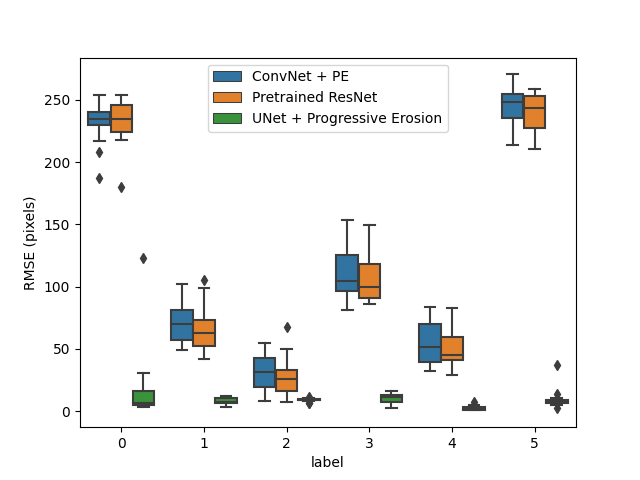
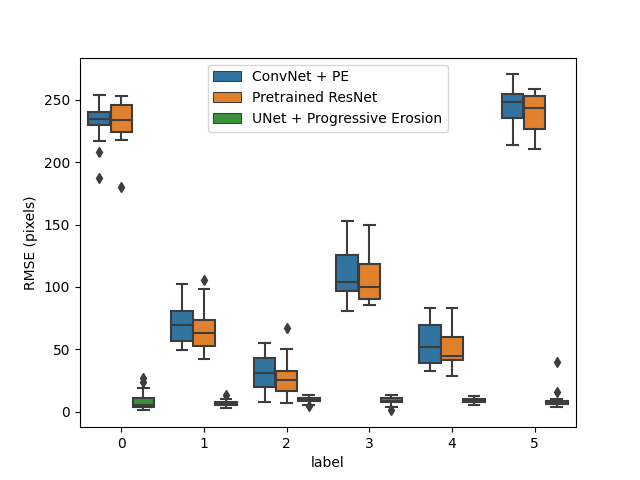
[Feat] Box Plot #23

diff --git a/plot_data/box_plot.py b/plot_data/box_plot.py
@@ -24,7 +24,7 @@ import matplotlib.pyplot as plt
 def convert_txt_to_list(txt_file):
     rmse_list = [[0]*18 for _ in range(6)]
 
-    with open(f"{txt_file}", "r") as f:
+    with open(f"./txt_files/{txt_file}", "r") as f:
         for line in f:
             data1 = list(line.split(','))
     
@@ -72,7 +72,7 @@ if __name__ == '__main__':
 
     parser.add_argument('--baseline1_txt', type=str, default="MSE_LIST_baseline_ConvNet_PE.txt")
     parser.add_argument('--baseline2_txt', type=str, default="MSE_LIST_baseline_ResNet.txt")
-    parser.add_argument('--best_txt', type=str, default="MIDL_D40-5_W_P_progressive_weighted_erosion_MSE_LIST.txt")
+    parser.add_argument('--best_txt', type=str, default="MIDL_D60-10_W_P_progressive_weighted_erosion_ver2_1e-4_50_MSE_LIST.txt")
 
     parser.add_argument('--experiment1', type=str, default="ConvNet + PE")
     parser.add_argument('--experiment2', type=str, default="Pretrained ResNet")
